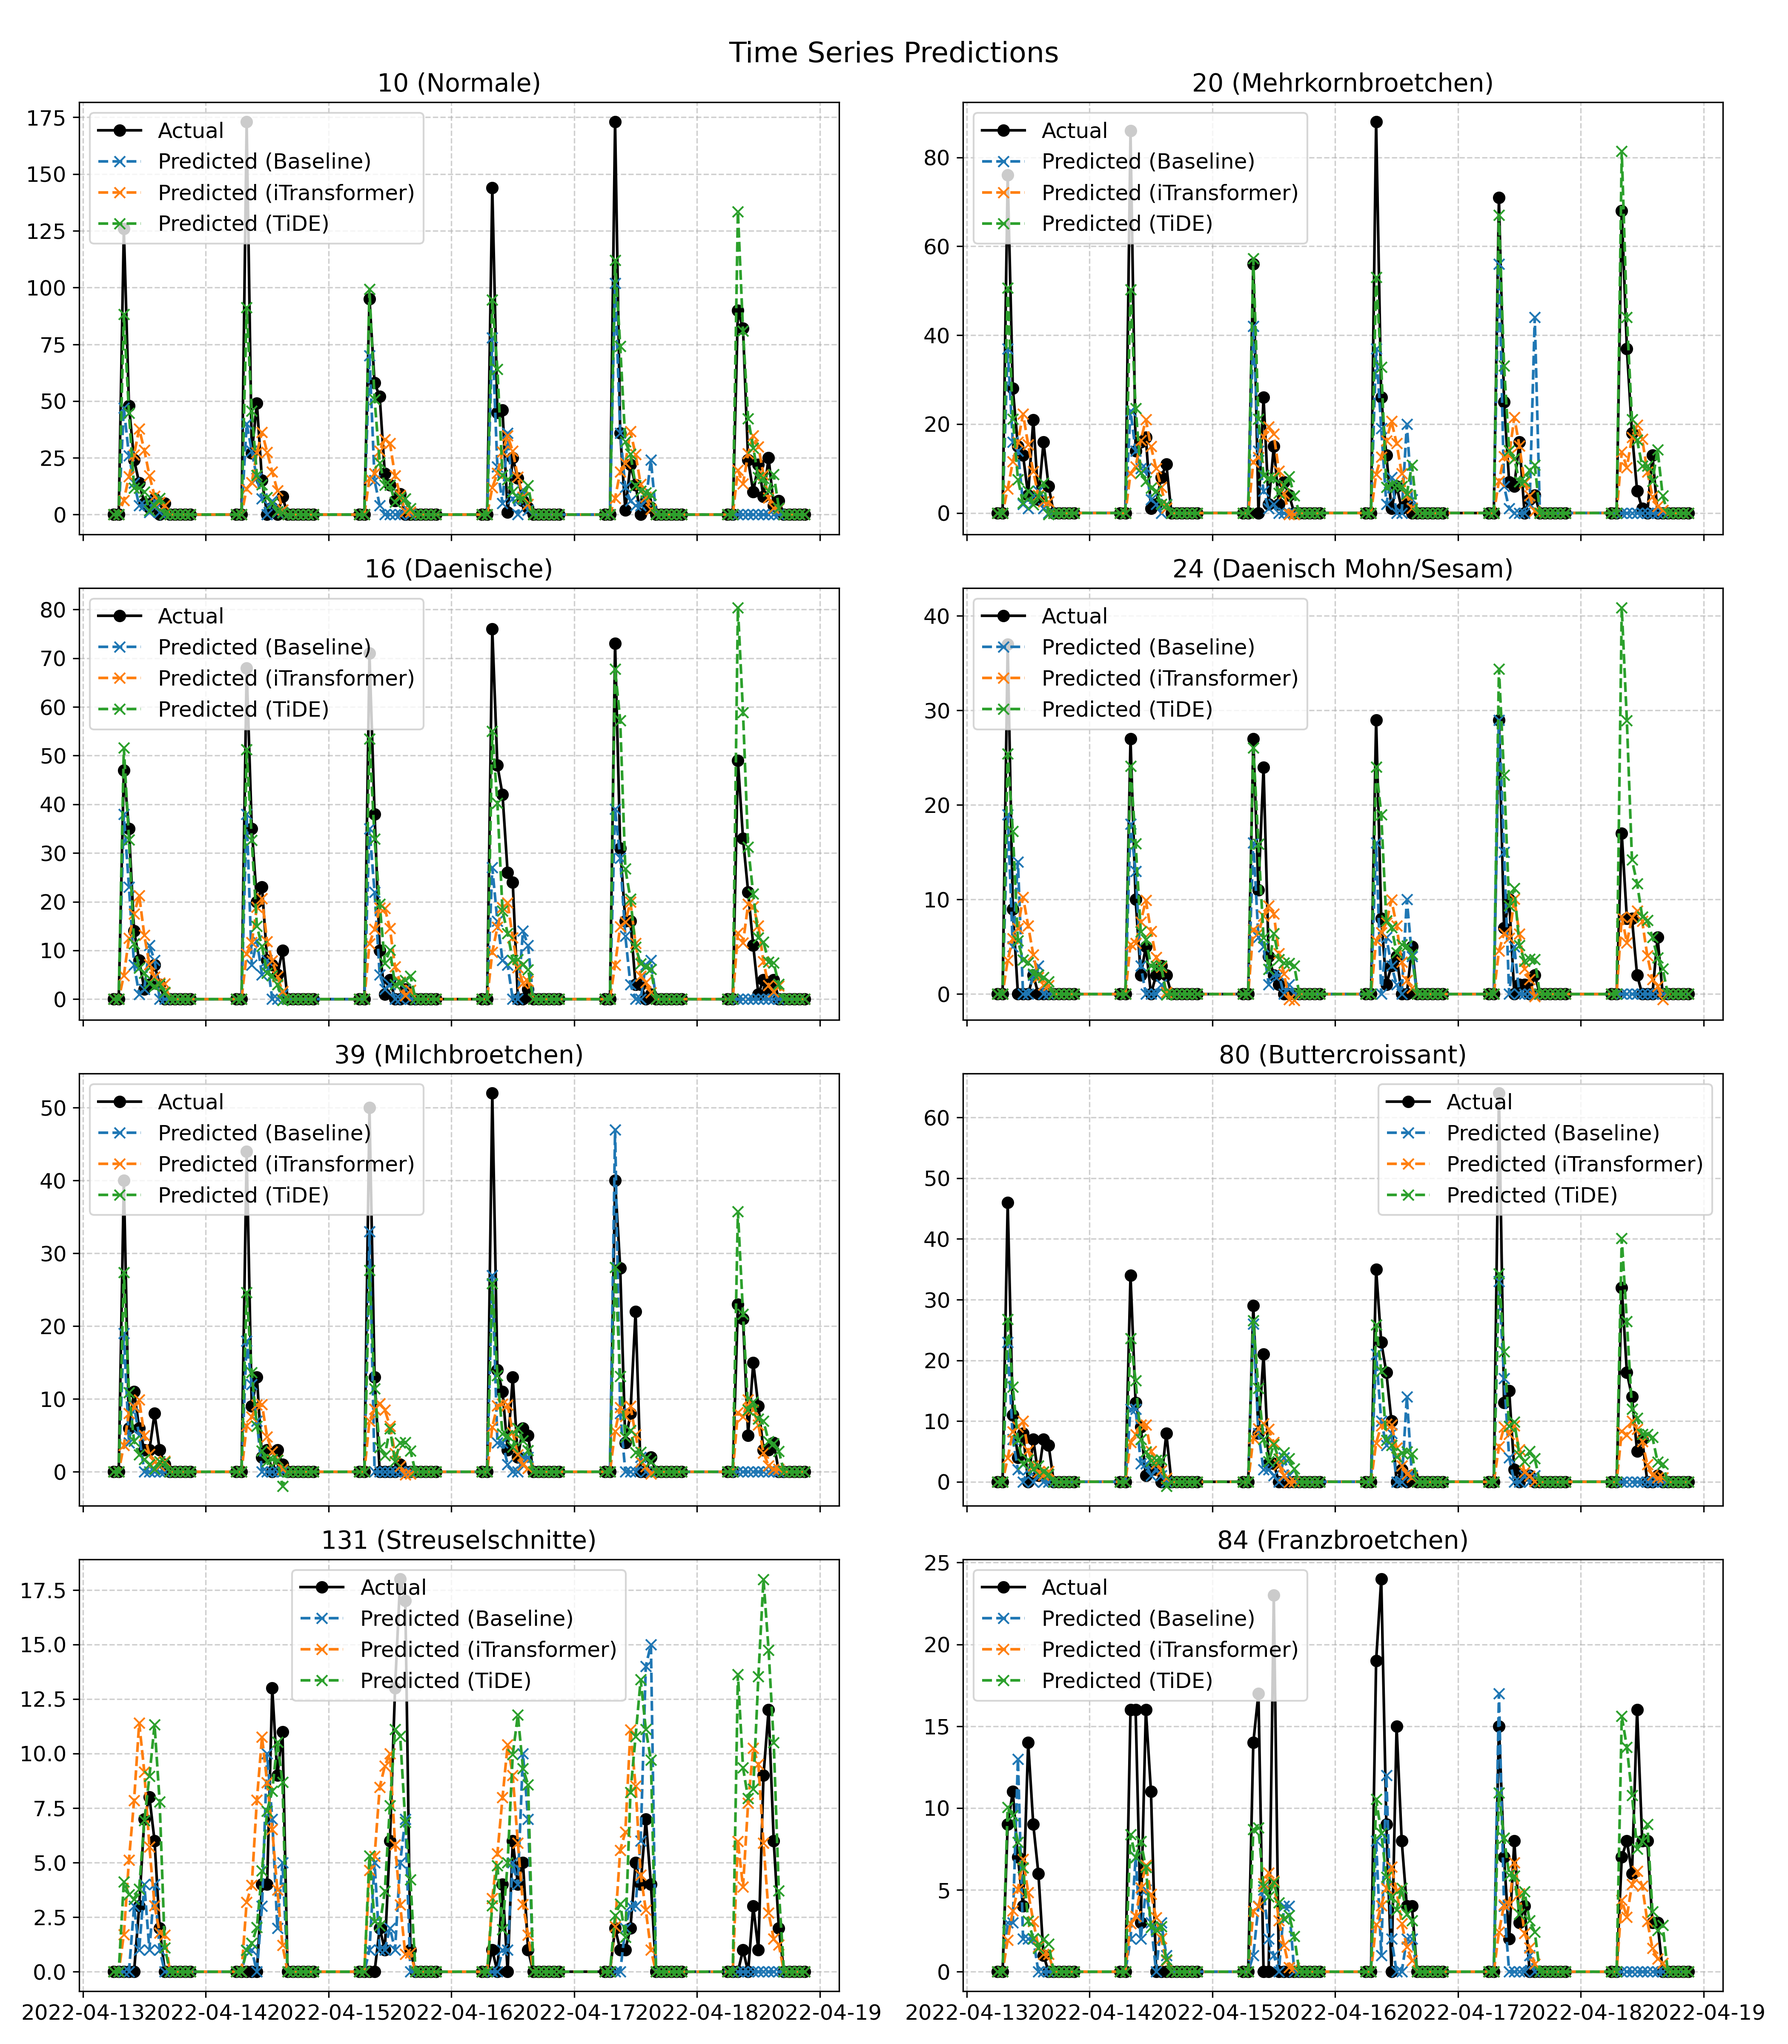
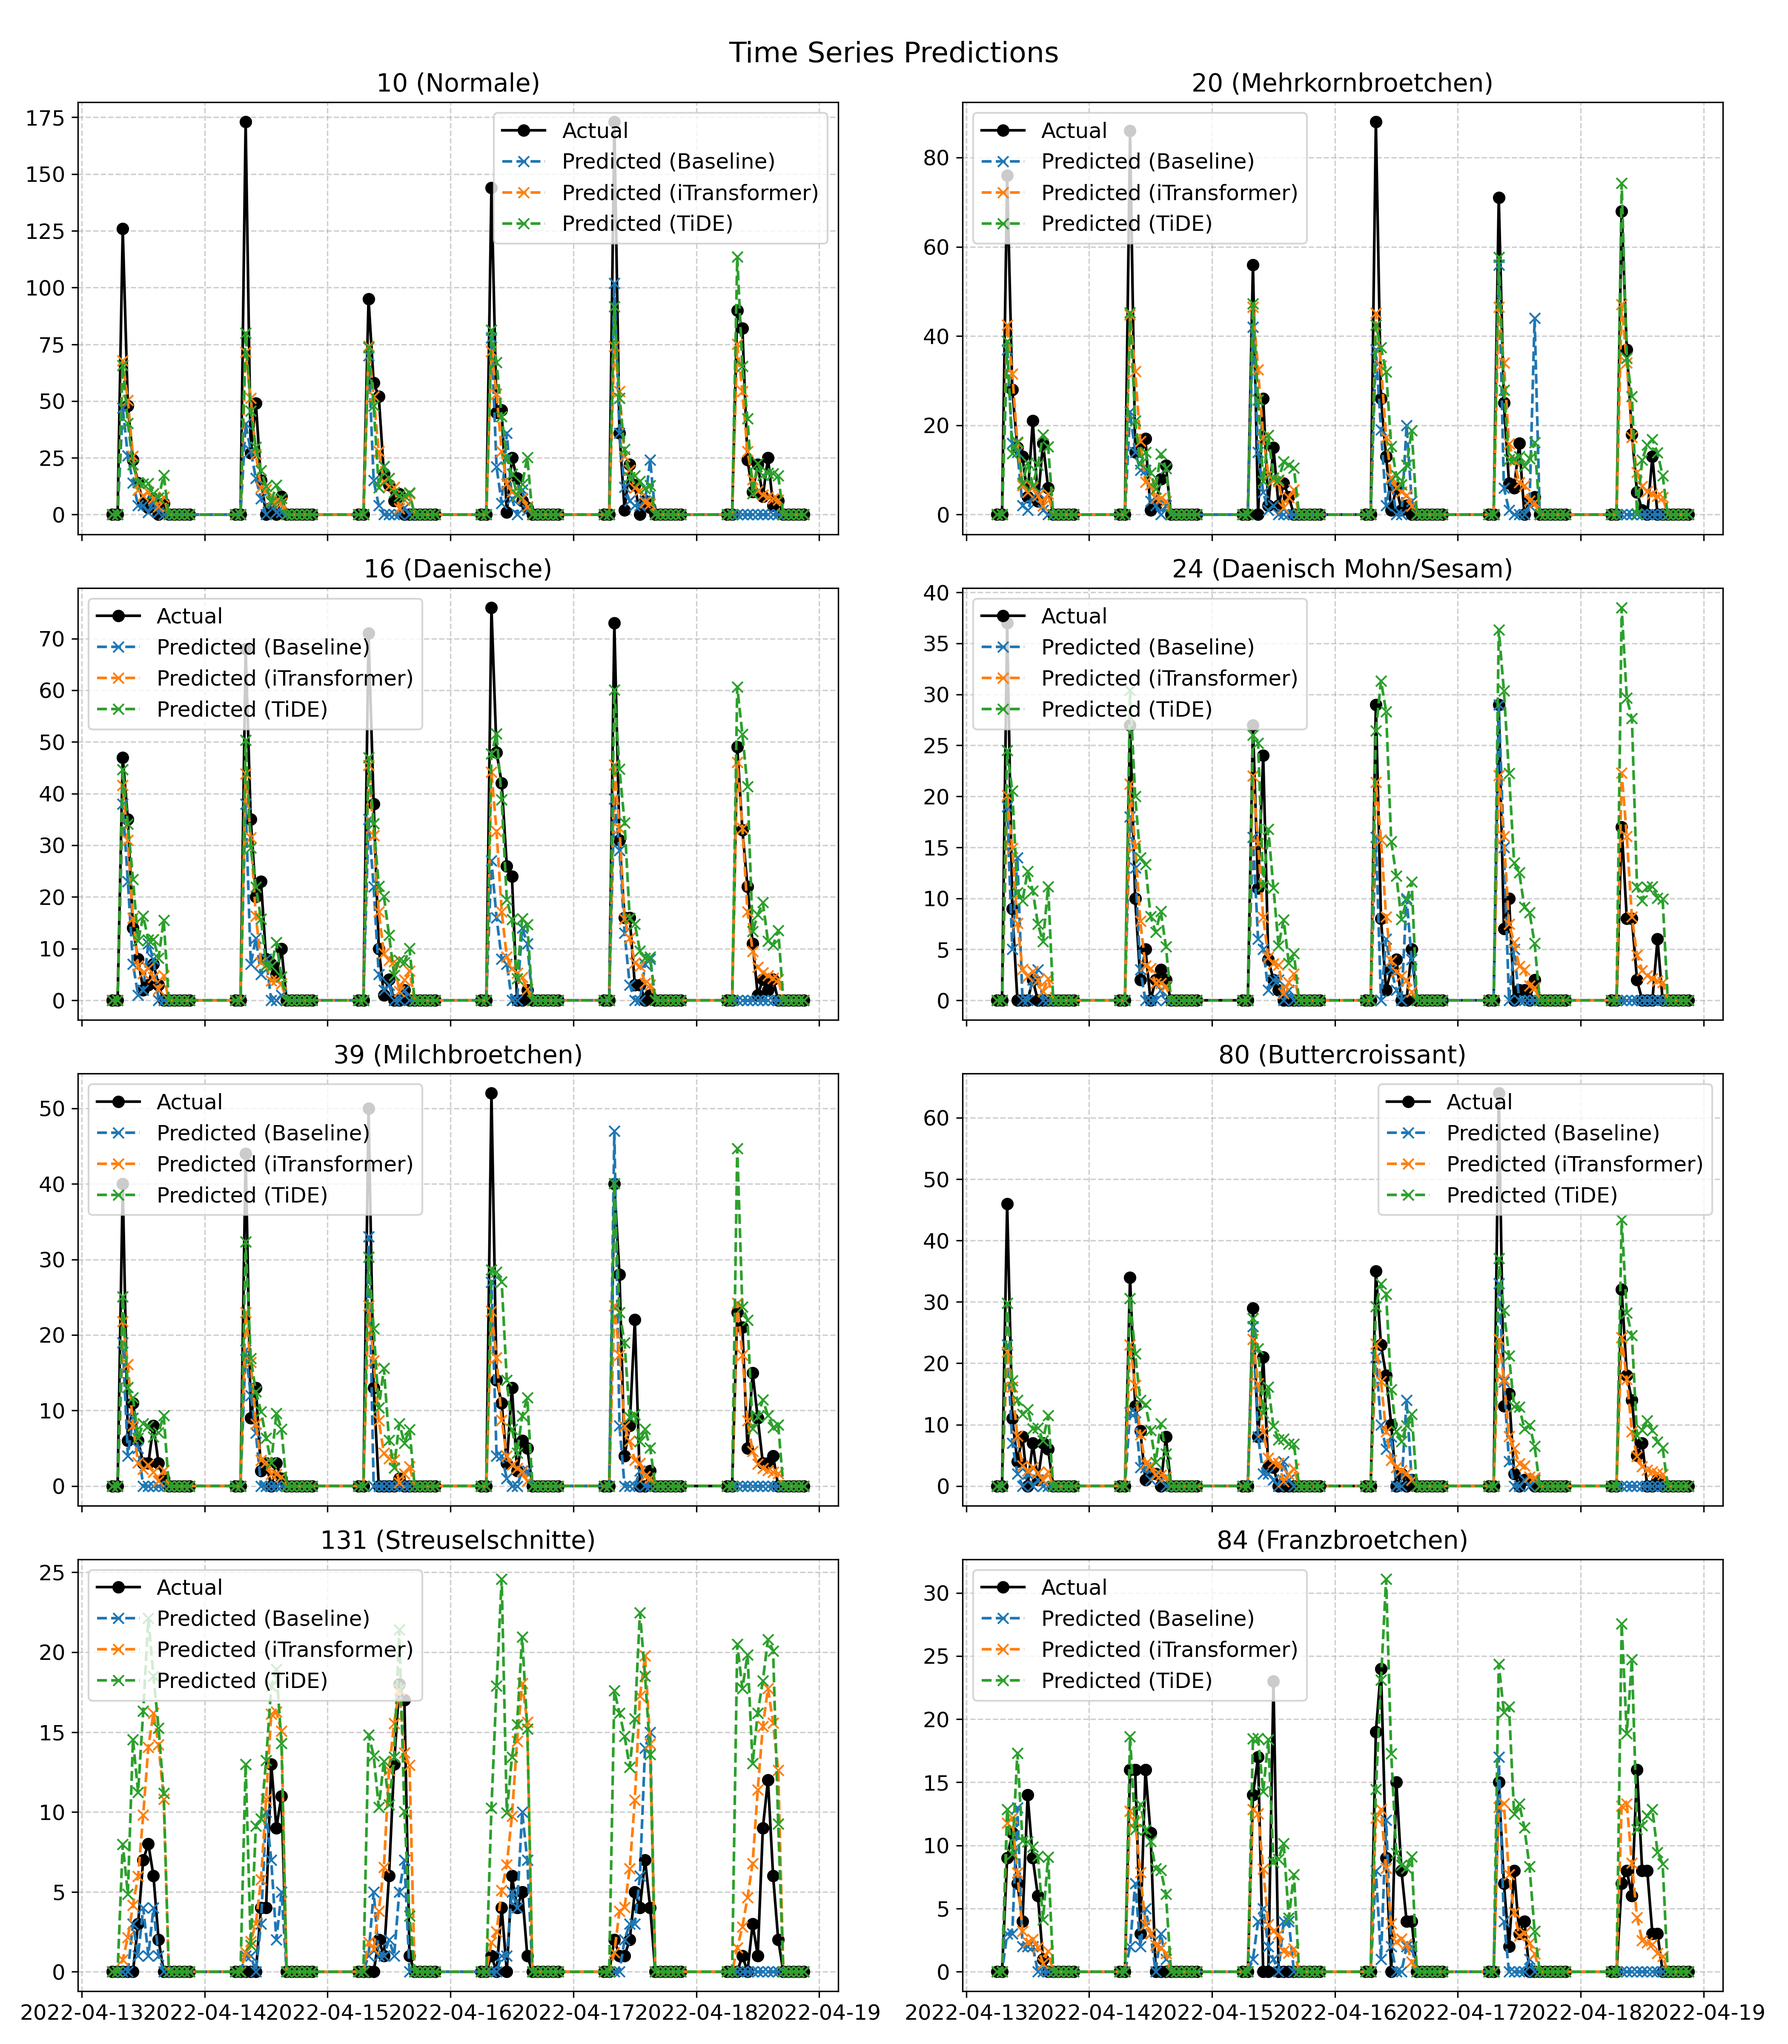
updated plotting and model saving

diff --git a/utils/plot_time_series.py b/utils/plot_time_series.py
@@ -3,40 +3,83 @@ import os
 import pandas as pd
 from utils.load_item_mapping import load_item_mapping
 
-def plot_multivariate_time_series_predictions(time_series, max_variates=8, title='Time Series Predictions', save_path="experiment/plots", n_values=96):
+def align_dataframes(dataframes):
+    """
+    Aligns a list of DataFrames to have the same indices.
+
+    Parameters:
+    - dataframes (list of pd.DataFrame): List of DataFrames to be aligned.
+
+    Returns:
+    - aligned_dataframes (list of pd.DataFrame): List of DataFrames with aligned indices.
+    """
+    if not dataframes:
+        return []
+
+    # Find the intersection of all DataFrame indices
+    common_indices = dataframes[0].index
+    for df in dataframes[1:]:
+        common_indices = common_indices.intersection(df.index)
+
+    # Reindex each DataFrame to the common indices
+    aligned_dataframes = [df.loc[common_indices] for df in dataframes]
+    
+    return aligned_dataframes
+
+def aggregate_time_series(time_series, aggregation='D'):
+    """
+    Aggregates the time series data to a specified frequency.
+
+    Parameters:
+    - time_series (dict): Dictionary with model names as keys and data frames as values.
+    - aggregation (str): Aggregation frequency. Defaults to 'D' for daily.
+
+    Returns:
+    - aggregated_time_series (dict): Dictionary with aggregated time series data.
+    """
+    aggregated_time_series = {}
+    for model_name, df in time_series.items():
+        aggregated_time_series[model_name] = df.resample(aggregation).sum()
+    return aggregated_time_series
+
+def smooth_time_series(time_series, window=7):
+    """
+    Applies a moving average smoothing to the time series data.
+
+    Parameters:
+    - time_series (dict): Dictionary with model names as keys and data frames as values.
+    - window (int): The window size for the moving average. Defaults to 7.
+
+    Returns:
+    - smoothed_time_series (dict): Dictionary with smoothed time series data.
+    """
+    smoothed_time_series = {}
+    for model_name, df in time_series.items():
+        smoothed_time_series[model_name] = df.rolling(window=window, min_periods=1).mean()
+    return smoothed_time_series
+
+def plot_time_series(time_series, title, save_path, n_values=96, max_variates=8):
     """
     Plots the actual vs predicted values for multivariate time series data.
-    
+
     Parameters:
-    - time_series (dict): Dictionary with model names as keys and data frames as values. 
+    - time_series (dict): Dictionary with model names as keys and data frames as values.
                           Each data frame must have variate names as column names.
-    - max_variates (int): Number of variate series to plot. Defaults to 2.
     - title (str): Title of the plot.
-    - save_path (str): Path to save the plot. Defaults to "experiment/plots".
-    - n_values (int): Number of values to plot on the x-axis. Defaults to 448.
+    - save_path (str): Path to save the plot.
+    - n_values (int): Number of values to plot on the x-axis. Defaults to 96.
+    - max_variates (int): Number of variate series to plot. Defaults to 8.
 
     Returns:
     - None
     """
-    # Ensure the time_series dict contains at least two entries (one for actual values and at least one for predictions)
-    assert len(time_series) > 1, "The time_series dictionary must contain at least two entries: one for actual values and at least one for predictions."
-
-    # Find the intersection of all DataFrame indices
-    common_indices = None
-    for model_name, df in time_series.items():
-        if common_indices is None:
-            common_indices = df.index
-        else:
-            common_indices = common_indices.intersection(df.index)
-
-    # Use only the common indices for plotting
-    y_true = time_series['Actual'].loc[common_indices].iloc[:n_values]
-    y_preds = {model_name: df.loc[common_indices].iloc[:n_values] for model_name, df in time_series.items() if model_name != 'Actual'}
+    # Use only the first n_values for plotting
+    y_true = time_series['Actual'].iloc[:n_values]
+    y_preds = {model_name: df.iloc[:n_values] for model_name, df in time_series.items() if model_name != 'Actual'}
 
     # Load item mapping
     item_mapping = load_item_mapping()
     
-    timesteps = y_true.shape[0]
     num_variates = min(y_true.shape[1], max_variates)
     
     num_columns = 2
@@ -76,5 +119,43 @@ def plot_multivariate_time_series_predictions(time_series, max_variates=8, title
         os.makedirs(save_path)
     
     # Save the plot
-    plot_file_path = os.path.join(save_path, 'time_series_predictions.png')
+    plot_file_path = os.path.join(save_path, f'{title.replace(" ", "_").lower()}.png')
     plt.savefig(plot_file_path, dpi=300)
+
+def plot_multivariate_time_series_predictions(time_series, max_variates=8, title='Time Series Predictions', save_path="experiment/plots", n_values=96, smoothing_window=14):
+    """
+    Plots the actual vs predicted values for multivariate time series data and its aggregated and smoothed versions.
+
+    Parameters:
+    - time_series (dict): Dictionary with model names as keys and data frames as values. 
+                          Each data frame must have variate names as column names.
+    - max_variates (int): Number of variate series to plot. Defaults to 8.
+    - title (str): Title of the plot.
+    - save_path (str): Path to save the plot. Defaults to "experiment/plots".
+    - n_values (int): Number of values to plot on the x-axis. Defaults to 96.
+    - smoothing_window (int): Window size for the moving average smoothing. Defaults to 7.
+
+    Returns:
+    - None
+    """
+    print(time_series)
+    # Align all DataFrames to have the same indices
+    aligned_dataframes = align_dataframes(list(time_series.values()))
+    time_series = dict(zip(time_series.keys(), aligned_dataframes))
+    print(time_series)
+
+    # Plot the original time series
+    plot_time_series(time_series, title=title, save_path=save_path, n_values=n_values, max_variates=max_variates)
+
+    # Aggregate the time series to daily frequency
+    aggregated_time_series = aggregate_time_series(time_series, aggregation='D')
+
+    # Plot the aggregated time series
+    plot_time_series(aggregated_time_series, title='Aggregated ' + title, save_path=save_path, n_values=n_values, max_variates=max_variates)
+
+    # Smooth the aggregated time series
+    smoothed_aggregated_time_series = smooth_time_series(aggregated_time_series, window=smoothing_window)
+
+    # Plot the smoothed aggregated time series
+    plot_time_series(smoothed_aggregated_time_series, title='Smoothed Aggregated ' + title, save_path=save_path, n_values=n_values, max_variates=max_variates)
+

diff --git a/models/iTransformer/new_data_loader.py b/models/iTransformer/new_data_loader.py
@@ -66,7 +66,7 @@ class ITransformerData(DataLoader):
         test_data = self.make_dataset(self.test_range[0], self.test_range[1])
         return train_data, val_data, test_data
     
-    def get_dummy(self):
+    def get_dummy2(self):
         """
         Generates dummy input for the model to create its variables.
         Needed to load a model with saved weights. 
@@ -81,6 +81,29 @@ class ITransformerData(DataLoader):
         dummy_data = tf.random.normal([1, self.hist_len, num_features])
         
         batch_x, batch_y, batch_x_mark = self.split_batch(dummy_data)
+        
+        return batch_x, batch_x_mark
+    
+    def get_dummy(self):
+        """
+        Generates dummy input for the model to create its variables.
+        
+        Returns:
+            batch_x: Dummy input batch for time series data
+            batch_x_mark: Dummy input batch for additional features
+        """
+        # Assume batch size of 1 for dummy input
+        dummy_batch_size = 1
+        
+        num_targets = len(self.ts_cols)
+        num_additional_features = self.data_df.shape[1] - num_targets
+        
+        # Create dummy data
+        dummy_data = tf.random.normal([dummy_batch_size, self.hist_len, self.data_df.shape[1]])
+        
+        # Split the dummy data into batch_x and batch_x_mark
+        batch_x = dummy_data[:, :, :num_targets]
+        batch_x_mark = dummy_data[:, :, num_additional_features:]
         
         return batch_x, batch_x_mark
     

diff --git a/models/iTransformer/embedding.py b/models/iTransformer/embedding.py
@@ -1,7 +1,7 @@
 import tensorflow as tf
 from tensorflow.keras import layers
 
-class DataEmbeddingInverted(tf.Module):
+class DataEmbeddingInverted2(tf.Module):
     def __init__(self, c_in, d_model, dropout=0.1):
         super(DataEmbeddingInverted, self).__init__()
         self.value_embedding = layers.Dense(d_model)
@@ -20,4 +20,24 @@ class DataEmbeddingInverted(tf.Module):
         # x: [Batch, variates, d_model]
         
         #print('embedding is being used')
+        return self.dropout(x, training=training)
+    
+class DataEmbeddingInverted(layers.Layer):
+    def __init__(self, c_in, d_model, dropout=0.1):
+        super(DataEmbeddingInverted, self).__init__()
+        self.value_embedding = layers.Dense(d_model)
+        self.dropout = layers.Dropout(rate=dropout)
+
+    def call(self, x, x_mark=None, training=None):
+        x = tf.transpose(x, perm=[0, 2, 1])
+        # x: [Batch, Time, Variate]
+        
+        if x_mark is None:
+            x = self.value_embedding(x)
+        else:
+            # the potential to take covariates (e.g., timestamps) as tokens
+            x = self.value_embedding(tf.concat([x, tf.transpose(x_mark, perm=[0, 2, 1])], axis=1))
+
+        # x: [Batch, Variates, d_model]
+        
         return self.dropout(x, training=training)

diff --git a/experiment/setup.py b/experiment/setup.py
@@ -107,8 +107,8 @@ def train_model_on_dataset(args, model_name, model, data_loader):
     train, val, test = data_loader.get_train_test_splits()
     callbacks = get_callbacks(num_epochs=args.num_epochs, model_name=model_name, dataset_name=args.dataset, mode='training')
     optimizer = tf.keras.optimizers.Adam(args.learning_rate)
-    loss = tf.keras.losses.MeanSquaredError()
-    #loss = AsymmetricMSELoss()
+    #loss = tf.keras.losses.MeanSquaredError()
+    loss = AsymmetricMSELoss()
 
     model.compile(optimizer=optimizer, 
                   loss=loss, 
@@ -120,7 +120,7 @@ def train_model_on_dataset(args, model_name, model, data_loader):
         result = model.evaluate(test, return_dict=True)
     elif model_name == 'TiDE':
         steps_per_epoch, validation_steps, test_steps = data_loader.split_sizes
-        steps_per_epoch = steps_per_epoch // 8
+        steps_per_epoch = steps_per_epoch // 5
         hist = model.fit(train, epochs=args.num_epochs, steps_per_epoch=steps_per_epoch, validation_data=val, validation_steps=validation_steps, callbacks=callbacks)
         result = model.evaluate(test, steps=test_steps, return_dict=True)
     elif model_name == 'iTransformer':

diff --git a/experiment/run.py b/experiment/run.py
@@ -9,7 +9,7 @@ def parse_arguments():
     parser = argparse.ArgumentParser(description='Configure model parameters.')
 
     parser.add_argument('--batch_size', type=int, default=32, help='Batch size for training the model.')
-    parser.add_argument('--learning_rate', type=float, default=0.001, help='Learning rate for the optimizer.')
+    parser.add_argument('--learning_rate', type=float, default=0.00005, help='Learning rate for the optimizer.')
     parser.add_argument('--num_epochs', type=int, default=50, help='Number of epochs for training.')
     parser.add_argument('--config_file', type=str, default="experiment/dataset_analysis.yaml", help='Path to the YAML configuration file.')
     parser.add_argument('--data_directory', type=str, default="data/sales_forecasting/sales_forecasting_8h", help='Path to data directory')

diff --git a/utils/loss.py b/utils/loss.py
@@ -99,7 +99,7 @@ class SMAPELoss(tf.keras.losses.Loss):
         return smape
 
 class AsymmetricMSELoss(tf.keras.losses.Loss):
-    def __init__(self, underestimation_penalty=1.5, overestimation_penalty=0.5, name="asymmetric_mse_loss"):
+    def __init__(self, underestimation_penalty=2, overestimation_penalty=1, name="asymmetric_mse_loss"):
         super().__init__(name=name)
         self.underestimation_penalty = underestimation_penalty
         self.overestimation_penalty = overestimation_penalty
